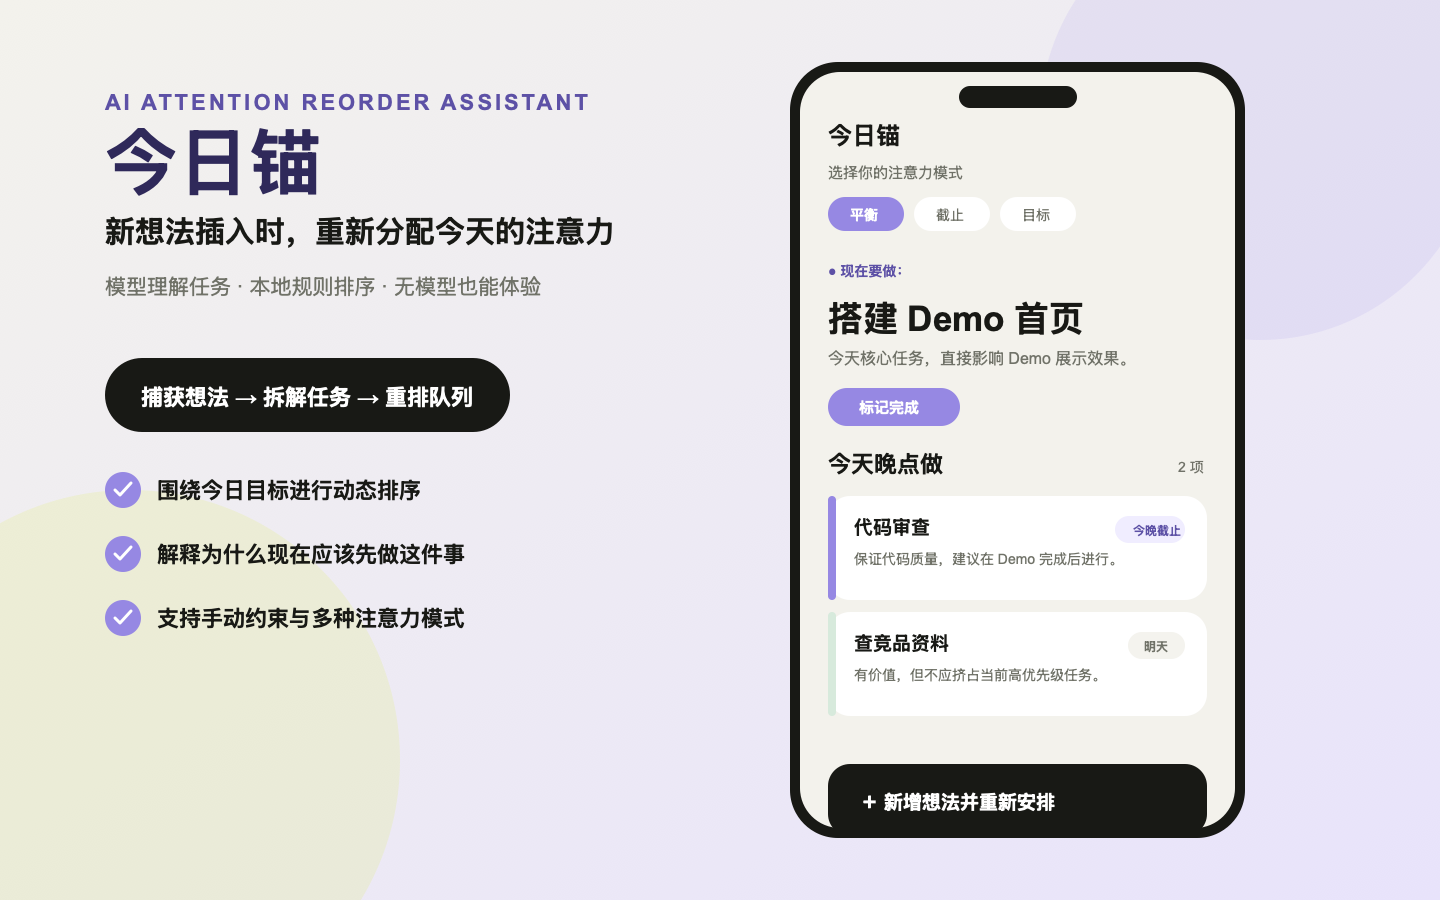
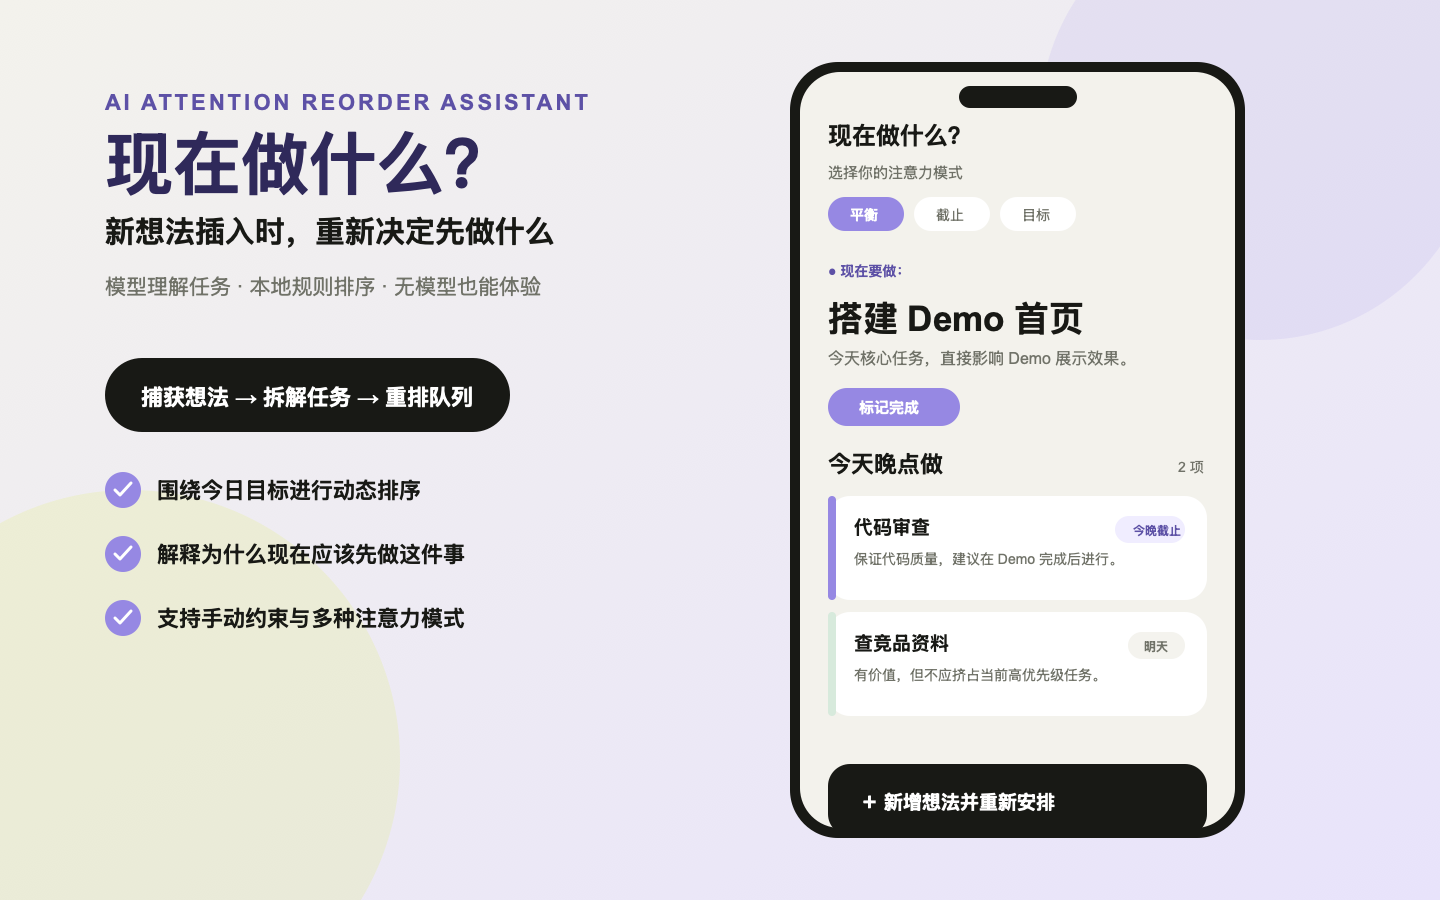
docs: 完成项目重命名为「现在做什么？」
更新了所有文档、页面标题、代码注释和配置文件中的项目名称，包括PRD、技术架构文档、README、页面展示文本以及包管理配置，同步更新了演示图片的文案内容。

Changed region(s): [[0.0625, 0.1244, 0.4375, 0.28], [0.5625, 0.1244, 0.6562, 0.1867]]

diff --git a/index.html b/index.html
@@ -3,7 +3,7 @@
 <head>
   <meta charset="UTF-8">
   <meta name="viewport" content="width=device-width, initial-scale=1.0, maximum-scale=1.0, user-scalable=no">
-  <title>今日锚 - AI 注意力重排助手</title>
+  <title>现在做什么？ - AI 注意力重排助手</title>
   <meta name="description" content="新想法插入时，帮你重新分配今天的注意力">
   <link rel="stylesheet" href="assets/styles.css">
 </head>

diff --git a/assets/app.js b/assets/app.js
@@ -1313,7 +1313,7 @@ class AttentionReorderApp {
 
     header.innerHTML = `
       <div class="mode-wrap">
-        <span class="app-title">今日锚</span>
+        <span class="app-title">现在做什么？</span>
         <span class="mode-label">选择你的注意力模式</span>
         <div class="mode-switcher" role="radiogroup" aria-label="选择注意力模式">
           <span class="mode-prefix">模式：</span>

diff --git a/server/server.test.js b/server/server.test.js
@@ -25,7 +25,7 @@ test("GET / serves the application shell", async (testContext) => {
 
   assert.equal(response.status, 200);
   assert.match(response.headers.get("content-type"), /text\/html/);
-  assert.match(html, /今日锚 - AI 注意力重排助手/);
+  assert.match(html, /现在做什么？ - AI 注意力重排助手/);
 });
 
 test("GET /assets/app.js serves the browser application", async (testContext) => {

diff --git a/server/server.js b/server/server.js
@@ -50,7 +50,7 @@ if (require.main === module) {
         }
       }
     }
-    console.log(`AI attention reorder assistant running at:`);
+    console.log(`What to do now? app running at:`);
     console.log(`  - Local: http://localhost:${config.port}`);
     console.log(`  - Network: http://${localIp}:${config.port}`);
     if (!provider.isConfigured()) {

diff --git a/PRD.md b/PRD.md
@@ -1,4 +1,4 @@
-# AI 注意力重排助手 PRD
+# 现在做什么？ PRD
 
 > 文档状态：已实现 Demo 的产品设计记录；部分未来规划尚未落地。最后整理：2026-07-29。
 
@@ -6,7 +6,7 @@
 
 | 项目 | 内容 |
 | --- | --- |
-| 产品名称 | AI 注意力重排助手 |
+| 产品名称 | 现在做什么？ |
 | 参赛赛道 | TRAE AI 创造力大赛 - 学习工作 |
 | Demo 形态 | 移动端优先的交互式 HTML Web Demo |
 | 提交形式 | Zip 打包上传社区，解压后打开 `index.html` 体验 |
@@ -43,7 +43,7 @@
 
 ### 3.1 一句话定位
 
-AI 注意力重排助手是一个文字/语音捕获的今日队列工具，帮助用户在新想法和临时任务不断出现时，自动判断什么值得今天做、先做什么、什么应该延后。
+「现在做什么？」是一个文字/语音捕获的今日队列工具，帮助用户在新想法和临时任务不断出现时，自动判断什么值得今天做、先做什么、什么应该延后。
 
 ### 3.2 产品不是
 
@@ -793,11 +793,11 @@ score = baseScore - effortPenalty
 
 ### 17.1 标题
 
-学习工作 + AI 注意力重排助手
+学习工作 + 现在做什么？
 
 ### 17.2 简介
 
-AI 注意力重排助手是一个文字/语音捕获的今日队列工具。用户可以随时添加想法，AI 会自动拆解任务，并根据当前目标、截止时间、阻塞风险、耗时和精力成本，实时重排今日任务队列，同时解释为什么某些任务上升、下降、延后或被建议移出今天。
+「现在做什么？」是一个文字/语音捕获的今日队列工具。用户可以随时添加想法，AI 会自动拆解任务，并根据当前目标、截止时间、阻塞风险、耗时和精力成本，实时重排今日任务队列，同时解释为什么某些任务上升、下降、延后或被建议移出今天。
 
 ### 17.3 核心亮点
 

diff --git a/README.md b/README.md
@@ -1,18 +1,18 @@
-# 今日锚 · AI 注意力重排助手
+# 现在做什么？ · AI 注意力重排助手
 
 > 新想法插入时，不是继续堆积待办，而是重新分配今天的注意力。
 
-An AI-assisted daily queue that turns new ideas into actionable tasks and reorders today’s attention with explainable local rules.
+An AI-assisted daily queue that answers “what should I do now?” when new tasks interrupt the day.
 
-[![CI](https://github.com/chenxinyu23/traeIdea/actions/workflows/ci.yml/badge.svg)](https://github.com/chenxinyu23/traeIdea/actions/workflows/ci.yml)
+[![CI](https://github.com/chenxinyu23/what-to-do-now/actions/workflows/ci.yml/badge.svg)](https://github.com/chenxinyu23/what-to-do-now/actions/workflows/ci.yml)
 [![License: MIT](https://img.shields.io/badge/License-MIT-yellow.svg)](LICENSE)
 [![Node.js](https://img.shields.io/badge/Node.js-%3E%3D22-339933.svg)](package.json)
 
-![今日锚界面预览](docs/images/demo.png)
+![现在做什么？界面预览](docs/images/demo.png)
 
 ## 项目简介
 
-今日锚是一个移动端优先的今日队列 Demo。用户可以输入临时出现的新想法，系统会先将其拆解为任务，再结合今日目标、截止时间、阻塞风险、任务价值、耗时与精力匹配度，重新生成：
+「现在做什么？」是一个移动端优先的今日队列 Demo。用户可以输入临时出现的新想法，系统会先将其拆解为任务，再结合今日目标、截止时间、阻塞风险、任务价值、耗时与精力匹配度，重新生成：
 
 - **现在做**：当前最值得集中注意力的事项。
 - **今天晚点做**：今天仍应推进，但不需要立刻处理。

diff --git a/TECH_ARCH.md b/TECH_ARCH.md
@@ -1,10 +1,10 @@
-# AI 注意力重排助手技术架构文档
+# 现在做什么？技术架构文档
 
 > 文档状态：当前 Demo 架构与演进设计记录；以仓库代码为最终实现依据。最后整理：2026-07-29。
 
 ## 1. 文档目标
 
-本文档描述“AI 注意力重排助手”初赛 Demo 的技术架构。目标是在不依赖复杂后端的前提下，完成一个可交互、可本地打开、可 Zip 提交的移动端优先 HTML Demo。
+本文档描述“现在做什么？”初赛 Demo 的技术架构。目标是在不依赖复杂后端的前提下，完成一个可交互、可本地打开、可 Zip 提交的移动端优先 HTML Demo。
 
 本架构优先保证：
 

diff --git a/idea.md b/idea.md
@@ -6,7 +6,7 @@
 
 - Todo 助手：随时添加待办事项，由 AI 参照用户对优先级的判断维度，实时更新排序、任务拆解和建议。
 
-该方向最终收敛为当前的“今日锚”：聚焦新任务出现后如何重新分配今天的注意力，而不是构建完整 Todo 产品。
+该方向最终收敛为当前的“现在做什么？”：聚焦新任务出现后如何重新分配今天的注意力，而不是构建完整 Todo 产品。
 
 ## 其他候选方向
 
